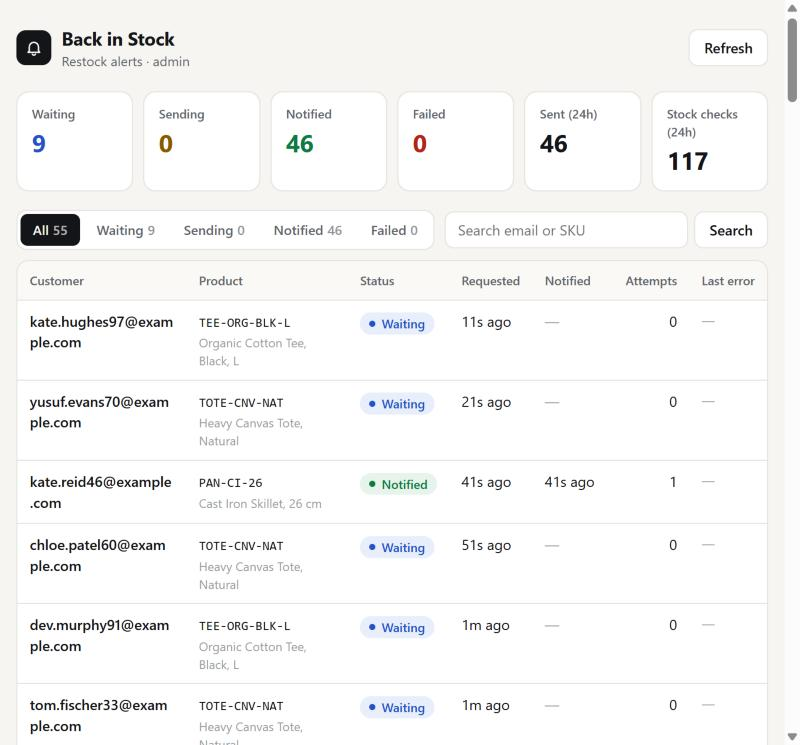
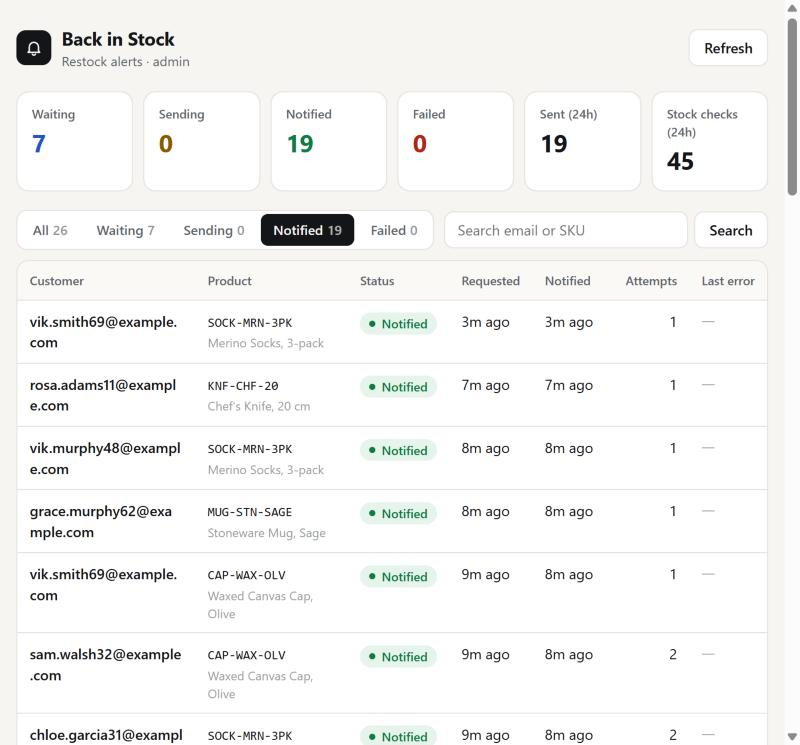
README: hosted harness run evidence and screenshots

diff --git a/README.md b/README.md
@@ -1,6 +1,6 @@
 # back-in-stock-alerts
 
-**Live:** TODO (deploy pending) · **Admin:** `/admin` · **Embed:** `/embed?sku=TEE-ORG-WHT-M`
+**Live URL:** none (optional in the brief); the image was run against the hosted test harness, results below. · **Admin:** `/admin` · **Embed:** `/embed?sku=TEE-ORG-WHT-M`
 
 Customers leave their email on a sold-out product; when it really comes back, they get one good-looking email. The service takes the sign-ups, listens for stock webhooks, double-checks every restock with the stock API, and sends exactly one email per request, through duplicate webhooks, fake restocks, failing email sends and restarts.
 
@@ -8,7 +8,9 @@ Customers leave their email on a sold-out product; when it really comes back, th
 |---|---|---|
 | ![Embed form](docs/embed.jpg) | ![Email](docs/email.jpg) | ![Admin](docs/admin.jpg) |
 
-Harness run against the challenge harness (local copy, simulated store every 10s for ~12 minutes): 18 duplicate webhook deliveries, 3 phantom restocks, a forged-secret webhook, 15 injected email failures (HTTP 500), a graceful restart, two `docker kill`s during retry backoff and four redeploys onto the same volume. Result: 57 requests, 46 notified, **46 accepted emails, each matched one-to-one to a request; no duplicates, no one left waiting on an in-stock product**, 0 failed. Inbox: [`docs/harness-inbox.jpg`](docs/harness-inbox.jpg). Checked with `scripts/verify-harness.mjs` (see [Verifying a run](#verifying-a-run)).
+**Hosted harness run** (the official test server, app reached through a temporary tunnel, 10m44s): the simulated store plus 6 duplicate webhook deliveries, 3 phantom restocks, forged-secret webhooks, 5 injected email failures (HTTP 500) and a `docker kill` of the app while one email was mid-send and five were waiting to retry. Result: **19 notified requests, 19 accepted emails, matched per customer; no duplicates; nobody left waiting on an in-stock item; 0 failed.** The email that was mid-send at the kill had already been accepted; after the restart it was resent with the same idempotency key and the harness shows it as `deduped (idempotency key)`, so the customer still got one. Every webhook got a 2xx. Inbox: [`docs/harness-inbox.jpg`](docs/harness-inbox.jpg).
+
+**Local harness run** (the challenge repo's `harness/server.js` in Docker, simulated store every 10s for ~12 minutes): 18 duplicate webhook deliveries, 3 phantom restocks, a forged-secret webhook, 15 injected email failures (HTTP 500), a graceful restart, two `docker kill`s during retry backoff and four redeploys onto the same volume. Result: 57 requests, 46 notified, **46 accepted emails, each matched one-to-one to a request; no duplicates, no one left waiting on an in-stock product**, 0 failed. Inbox: [`docs/local-harness-inbox.jpg`](docs/local-harness-inbox.jpg). Checked with `scripts/verify-harness.mjs` (see [Verifying a run](#verifying-a-run)).
 
 ## Run it
 
